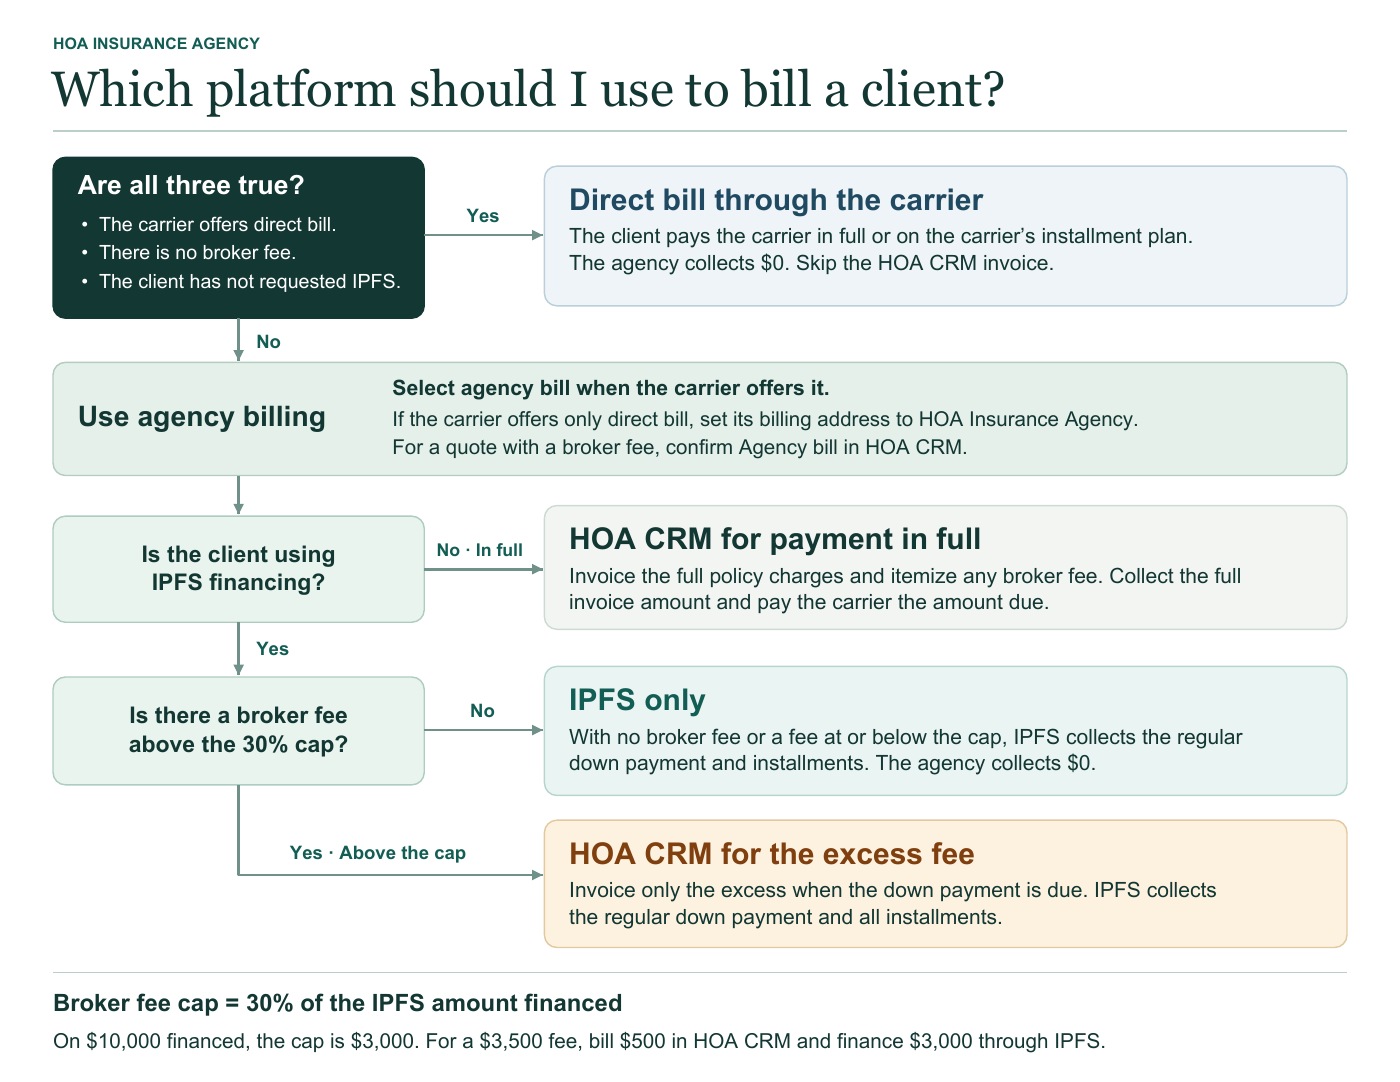
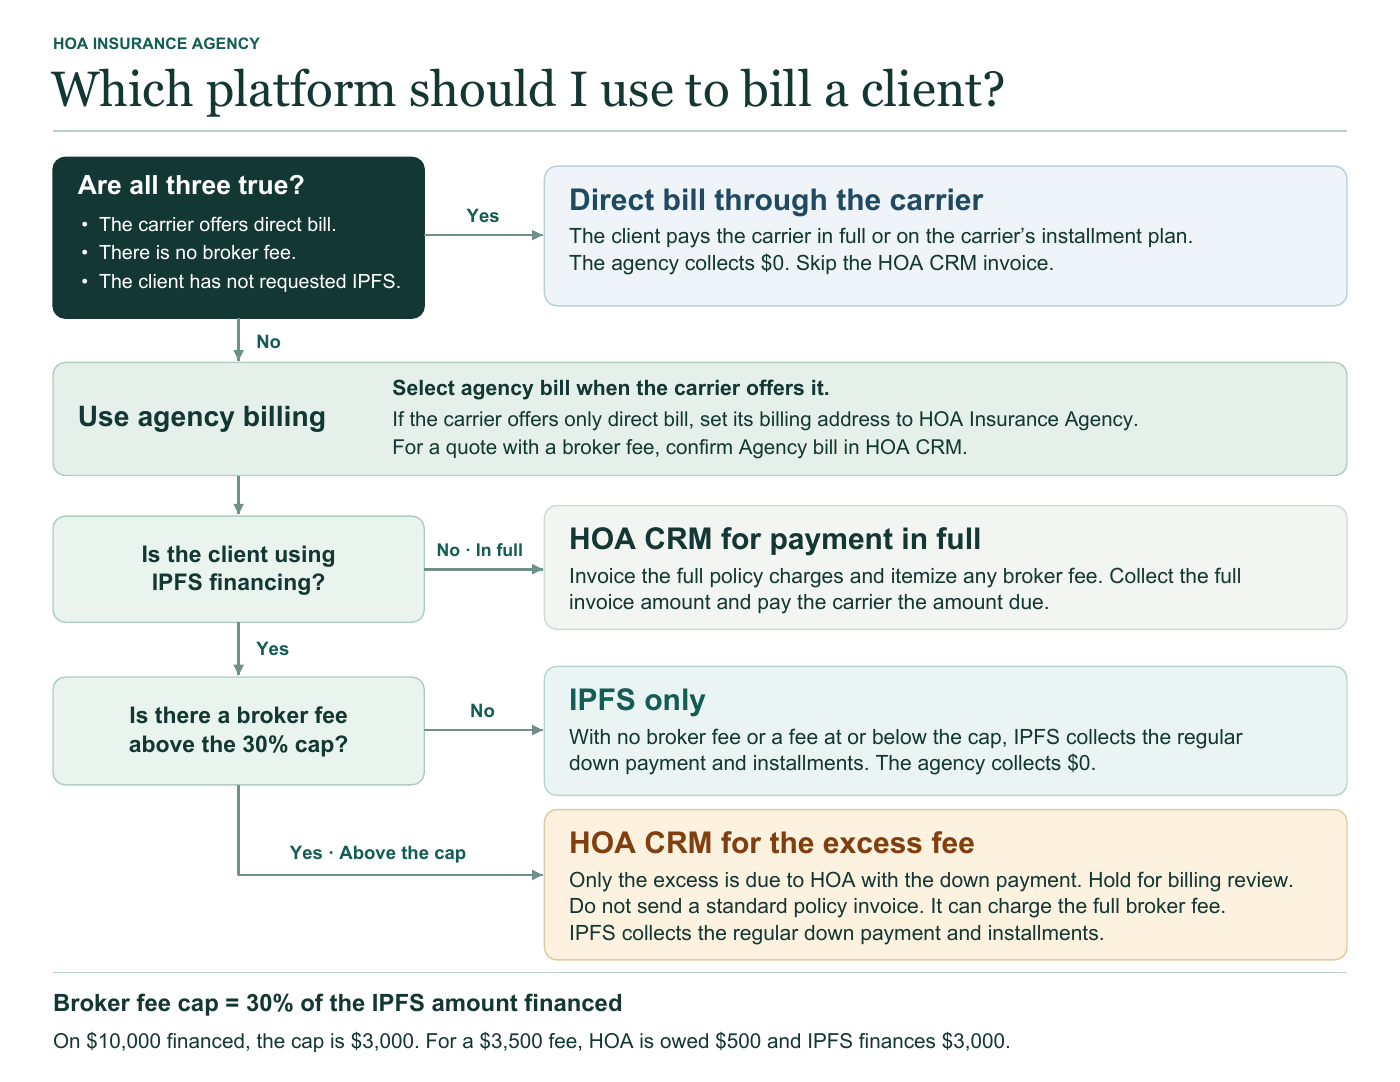
Hold standard invoices for excess-only broker fees (#190)

Changed region(s): [[0.3686, 0.732, 0.9829, 0.915], [0.43, 0.9455, 0.7986, 0.976]]

diff --git a/crm/src/components/billing-flowchart/BillingFlowchart.tsx b/crm/src/components/billing-flowchart/BillingFlowchart.tsx
@@ -22,9 +22,9 @@ export function BillingFlowchart() {
           <dt>IPFS with no broker fee or a fee at or below the cap → IPFS only</dt>
           <dd>IPFS collects the down payment and installments. HOA collects $0 from the client.</dd>
           <dt>IPFS with a broker fee above the cap → HOA CRM for the excess fee</dt>
-          <dd>Invoice only the excess fee when the down payment is due. IPFS collects the regular down payment and all installments.</dd>
+          <dd>HOA is owed only the excess when the down payment is due. Hold the standard HOA CRM invoice for billing review. Sending it can restore the full broker fee. IPFS collects the regular down payment and all installments.</dd>
         </dl>
-        <p>The cap is 30% of the IPFS amount financed. On $10,000 financed, the cap is $3,000. For a $3,500 broker fee, bill $500 in HOA CRM and finance $3,000 through IPFS.</p>
+        <p>The cap is 30% of the IPFS amount financed. On $10,000 financed, the cap is $3,000. For a $3,500 broker fee, HOA is owed $500 and IPFS finances $3,000.</p>
       </div>
       <a href={printableChart} target="_blank" rel="noopener noreferrer">Open printable flowchart (PDF)</a>
     </details>

diff --git a/crm/src/pages/account/InvoicesTab.test.tsx b/crm/src/pages/account/InvoicesTab.test.tsx
@@ -40,7 +40,8 @@ describe("invoice creation reliability", () => {
     expect(screen.getByRole("link", { name: "Open printable flowchart (PDF)" })).toHaveAttribute("href");
     expect(screen.getByText(/Skip the HOA CRM invoice/)).toBeInTheDocument();
     expect(screen.getByText(/set the billing address on the carrier’s bill to HOA Insurance Agency/)).toBeInTheDocument();
-    expect(screen.getByText(/bill \$500 in HOA CRM/)).toBeInTheDocument();
+    expect(screen.getByText(/Hold the standard HOA CRM invoice for billing review/)).toBeInTheDocument();
+    expect(screen.getByText(/HOA is owed \$500 and IPFS finances \$3,000/)).toBeInTheDocument();
     expect(selector).toHaveValue("");
     expect(api.models.Invoice.create).not.toHaveBeenCalled();
   });
